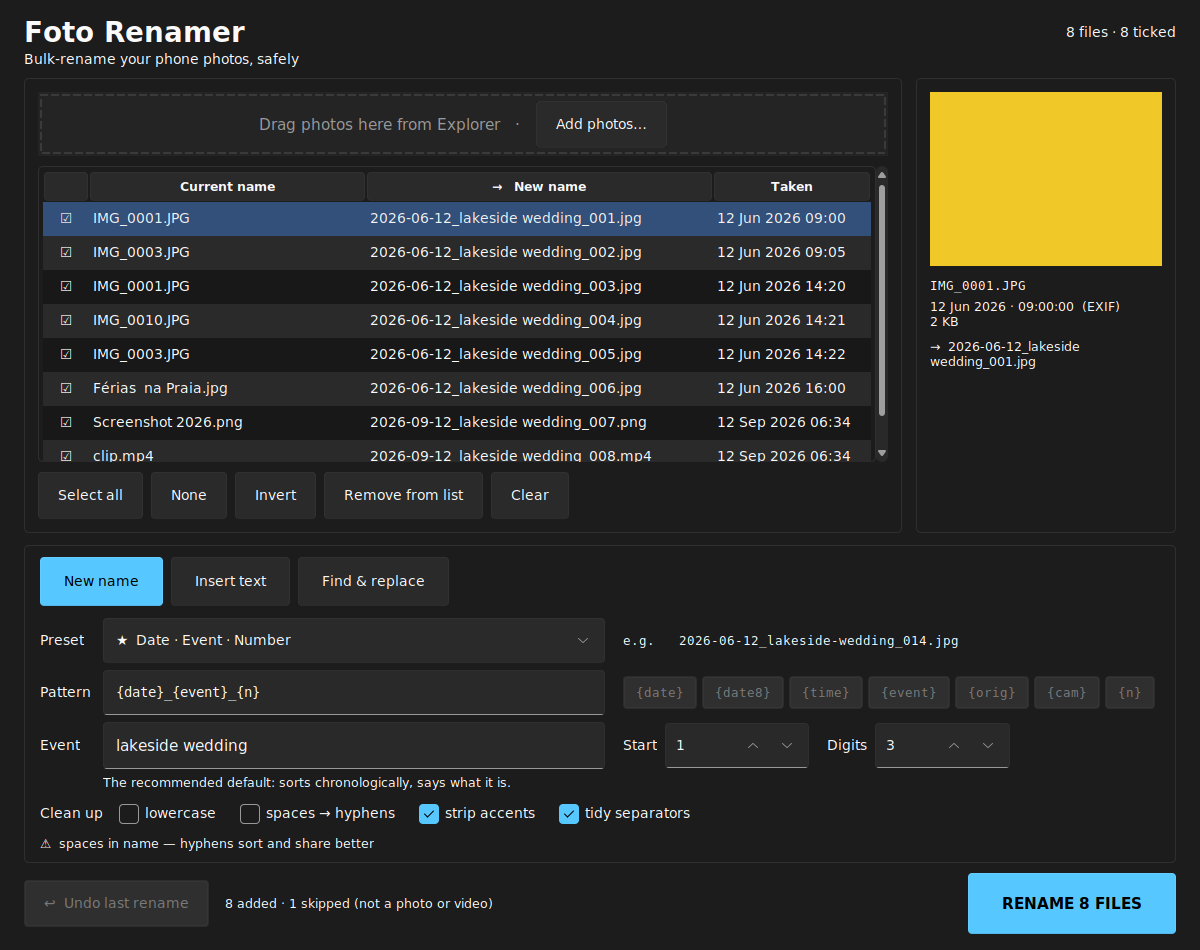
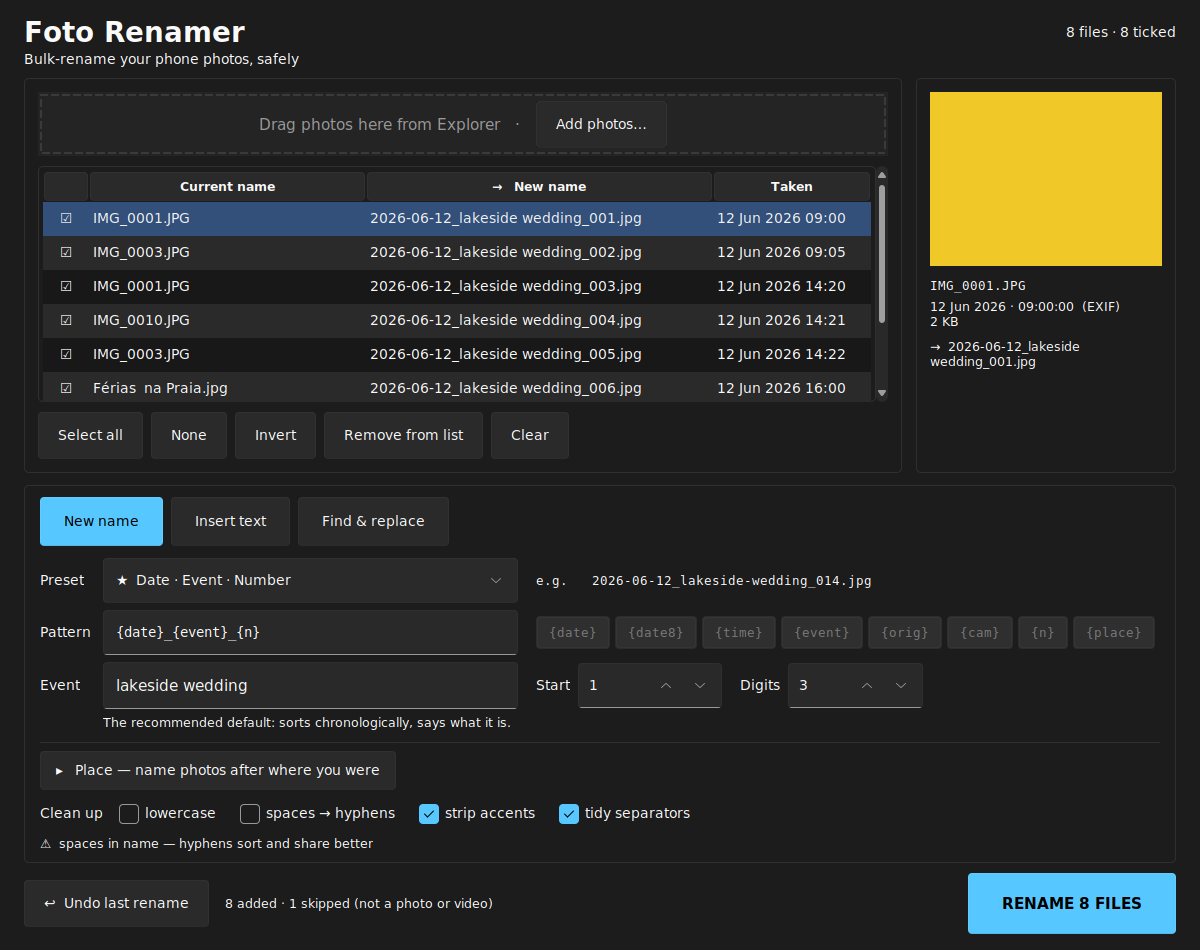
Screenshots: the current window, plus the Place panel open
Every shot regenerated from the committed code, so the default view shows the
folded Place strip and the {place} chip rather than the window as it was. One
new shot, 08, has the panel open over a three-stay trip — including the
afternoon at Fenway Park that sits inside the Boston week, which is the
narrowest-wins rule doing its job.

Claude-Session: https://claude.ai/code/session_01Y8vFRMvdxoWafyBxByfwky

diff --git a/tools/gui_drive_full.py b/tools/gui_drive_full.py
@@ -539,6 +539,27 @@ def sc_screenshots(outdir):
     pump(a.root, 12)
     shot(a.root, outdir / "07-long-name-capped.png")
     a.root.destroy()
+
+    # The Place panel, open, with a trip declared over the cardC photos.
+    wipe_settings()
+    b = new_app()
+    b.root.geometry("1200x1050+0+0")
+    b.add_paths([str(FIX / "cardC")])
+    b.wait_for_dates()
+    b.var_event.set("trip")
+    b.var_place_open.set(True); b._sync_place_panel()
+    for city, start, end in (("New York City", "2026-09-15", "2026-09-15"),
+                             ("Boston", "2026-09-16", "2026-09-20"),
+                             ("Fenway Park", "2026-09-17", "2026-09-17")):
+        b.var_city.set(city)
+        b.var_from_date.set(start); b.var_to_date.set(end)
+        b.var_from_time.set("13:00" if city == "Fenway Park" else "00:00")
+        b.var_to_time.set("18:00" if city == "Fenway Park" else "23:59")
+        b._add_stay()
+    b.tree.selection_set("0"); b._show_thumbnail()
+    for _ in range(40): pump(b.root); b._poll_thumbnails()
+    shot(b.root, outdir / "08-place-panel.png")
+    b.root.destroy()
     print("   ", sorted(p.name for p in outdir.glob("*.png")))
 
 # ---------------------------------------------------------------------------

diff --git a/screenshots/README.md b/screenshots/README.md
@@ -11,6 +11,7 @@ The app as it actually runs, captured from the committed code.
 | [`05-convention-warning.png`](05-convention-warning.png) | The convention check turning amber — `⚠ spaces in name` — after the lowercase and hyphen switches were turned off. It warns, it never blocks. |
 | [`06-after-rename-undo-available.png`](06-after-rename-undo-available.png) | Straight after renaming: the list shows the new names, **Undo last rename** is enabled, **RENAME** is greyed out because nothing is left to change, and the status reads `Renamed 8 files · undo is available`. |
 | [`07-long-name-capped.png`](07-long-name-capped.png) | The Windows path-length guard. A very long Event name turns every affected row amber and shows `⚠ 8 name(s) shortened to stay under Windows' 260-character path limit`. The names are cut before anything touches the disk, not attempted and failed. |
+| [`08-place-panel.png`](08-place-panel.png) | The **Place** panel open, with a trip declared: 15 Sep in New York City, 16–20 Sep in Boston, and one afternoon at Fenway Park. The narrower stay wins inside it, so the `{place}` at the end of the pattern resolves per photo — the line beside *Position* is the first ticked file as it will come out. Closed, the panel is the one-line strip in `01-new-name-mode.png`. |
 
 ## A note on how these were captured
 
